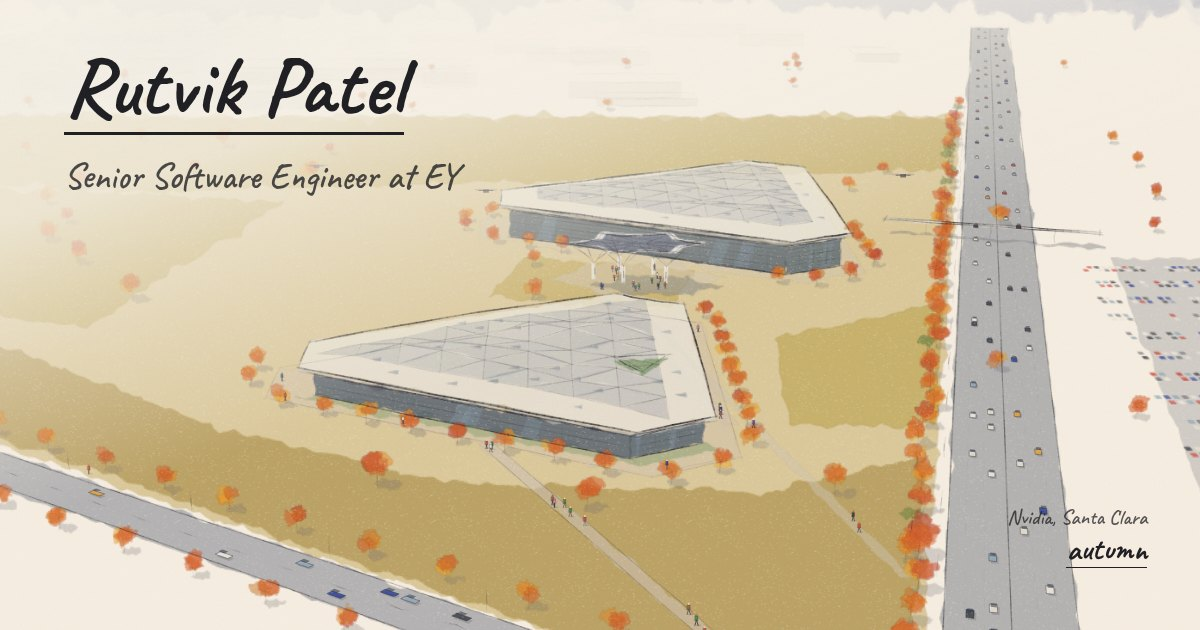
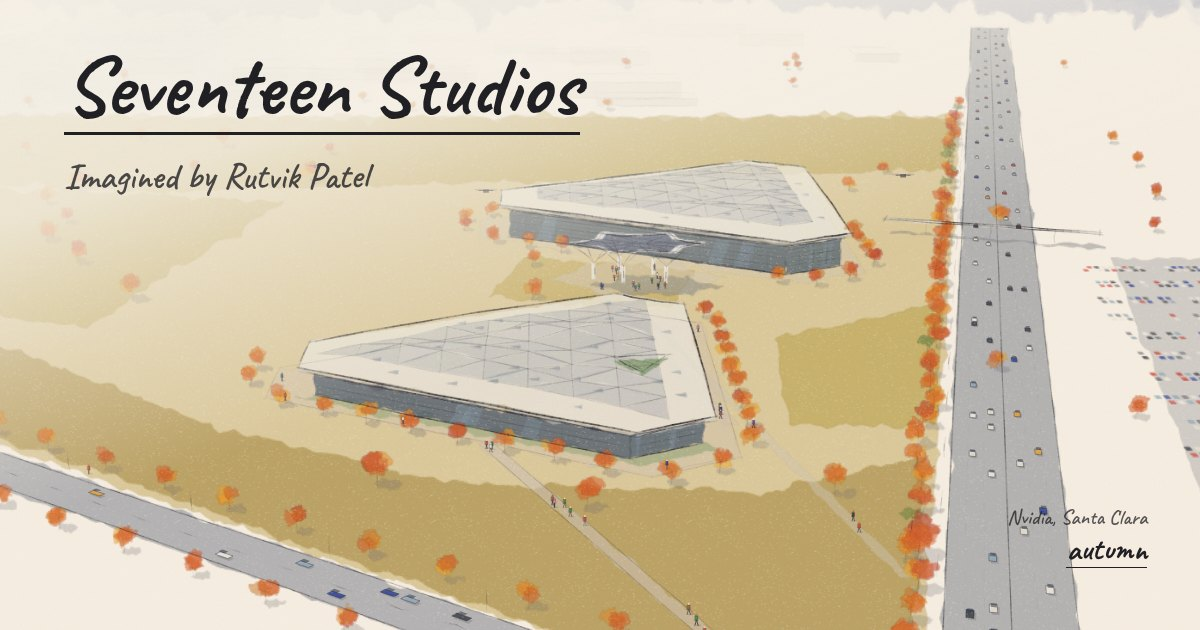
Landing previews as Seventeen Studios; one general card for problems
- The landing's tab, link title and card say "Seventeen Studios", with
  "Imagined by Rutvik Patel" under it (site.byline). The description
  says what is inside. Pages inside keep "— Rutvik Patel" in their
  tabs.
- Every problem page shared a card of Trapping Rain Water. They now
  share a general card: six kinds of drawing (array and hash map, grid,
  tree, linked list, weighted graph, bars and water), each photographed
  part-way through its own page, trimmed to what is drawn, and laid out
  on paper under the section's name and languages.
- Removed founder.role and founder.location, which nothing reads now.

Claude-Session: https://claude.ai/code/session_017SQiwDxuabJfEwbiYyqsdt

Changed region(s): [[0.0617, 0.0905, 0.4933, 0.2111], [0.0617, 0.2111, 0.4625, 0.3016]]

diff --git a/src/app/layout.tsx b/src/app/layout.tsx
@@ -40,24 +40,18 @@ const siteUrl = SITE_URL;
  * three disagreeing is the ordinary way a share card ends up advertising
  * something the page does not say.
  */
-const LANDING_TITLE = `${founder.name} — ${founder.role}, ${founder.location}`;
+const LANDING_TITLE = site.name;
 
 export const metadata: Metadata = {
   metadataBase: new URL(siteUrl),
   /*
-    THE TAB SAYS HIS NAME.
+    The landing is the studio's: its tab and its link preview say
+    "Seventeen Studios", with "Imagined by Rutvik Patel" under it (the
+    description, and the card). Every page inside is his, and its tab says
+    so — "Algorithms — Rutvik Patel" — through the template.
 
-    It used to open with the studio's — "Seventeen Studios — The engineering
-    notebook of Rutvik Patel." — which is the right way round for a company and
-    the wrong way round for this. The people this site is built for are reading
-    it with twenty tabs open, half of them other candidates, and the one string
-    they need in order to know which tab is which is the name of the person
-    whose work it is. The brand still owns the page: it is the mark in the
-    header.
-
-    The keywords went with it. "Engineering studio", "software consultancy" and
-    "creative engineering" were bidding for agency traffic — the exact thing
-    this site stopped being, and the exact reader it does not want.
+    No agency keywords: "engineering studio", "software consultancy" and
+    "creative engineering" bid for the reader this site is not for.
   */
   title: {
     default: LANDING_TITLE,

diff --git a/src/content/studio.ts b/src/content/studio.ts
@@ -31,9 +31,13 @@
 
 import { founder } from './founder';
 
+const byline = `Imagined by ${founder.name}`;
+
 export const site = {
   name: 'Seventeen Studios',
-  description: `The sketchbook of ${founder.name}, ${founder.title} at ${founder.employer}, ${founder.focus}.`,
+  /** Under the name, wherever the site introduces itself: the landing's link preview and its card. */
+  byline,
+  description: `${byline}: Nvidia's campus painted in watercolour through a year, the NeetCode 150 drawn step by step, and calculus you can touch.`,
   /*
     There is deliberately no `email` field. It is assembled on the client by
     `lib/contact.ts` so the address never lands in the static export — see the

diff --git a/src/app/algorithms/[slug]/page.tsx b/src/app/algorithms/[slug]/page.tsx
@@ -22,8 +22,8 @@ export function generateMetadata({ params }: { params: { slug: string } }): Meta
       title: `${p.title} — step by step`,
       description,
       path: `/algorithms/${p.slug}/`,
-      image: 'algorithms-problem',
-      alt: 'A problem from the NeetCode 150 beside the list of all of them, its solution drawn step by step',
+      image: 'algorithms-drawn',
+      alt: 'Algorithms: six drawings from the NeetCode 150 — an array and a hash map, a grid, a tree, a linked list, a weighted graph, and bars holding water — each mid-way through its steps',
     }),
   };
 }

diff --git a/src/content/founder.ts b/src/content/founder.ts
@@ -15,8 +15,6 @@ import { asset } from '@/lib/asset';
 
 export const founder = {
   name: 'Rutvik Patel',
-  role: 'Software Engineer',
-  location: 'Toronto, Canada',
   /*
     His title where he works. THE EMPLOYER IS "EY", NOT "ERNST & YOUNG": the
     firm rebranded in 2013, and "EY" is its name. The résumé's company header

diff --git a/README.md b/README.md
@@ -160,9 +160,10 @@ To change the résumé, edit the .docx and export the PDF from it.
 
 Every route names its own share card (`public/og/<name>.jpg`, drawn by
 `scripts/build-og.mjs`), and `scripts/verify-og.mjs` fails the build if one is
-missing. The landing, founder and algorithms cards are those pages,
-photographed from the built export, and Grasp's is drawn in the site's own
-font files, so run `npm run build` before `npm run og`. Every page sets its
+missing. The landing, founder and algorithms index cards are those pages,
+photographed from the built export; the one card every problem page shares
+is six drawings off six problem pages, laid out on paper (so it is never one
+problem); and Grasp's is drawn in the site's own font files, so run `npm run build` before `npm run og`. Every page sets its
 preview through `share()` in `lib/og.ts` — the Open Graph and X tags together —
 and each card's URL ends in `?v=` and a hash of the file, so a redrawn card is a
 new URL that no app has cached. The cards are JPEG so they stay well under the
